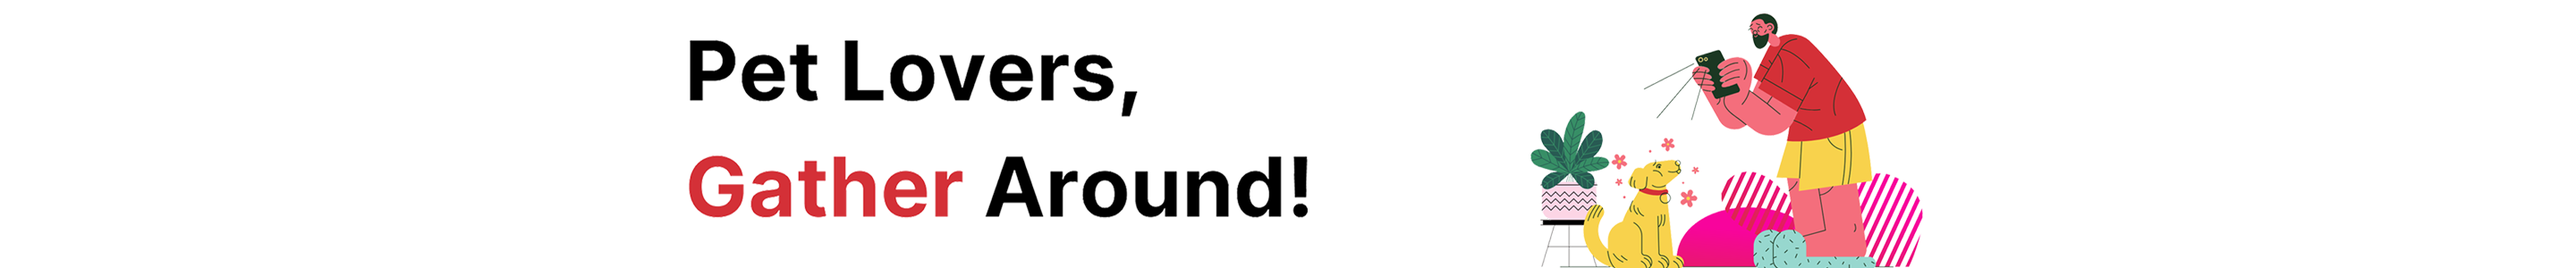
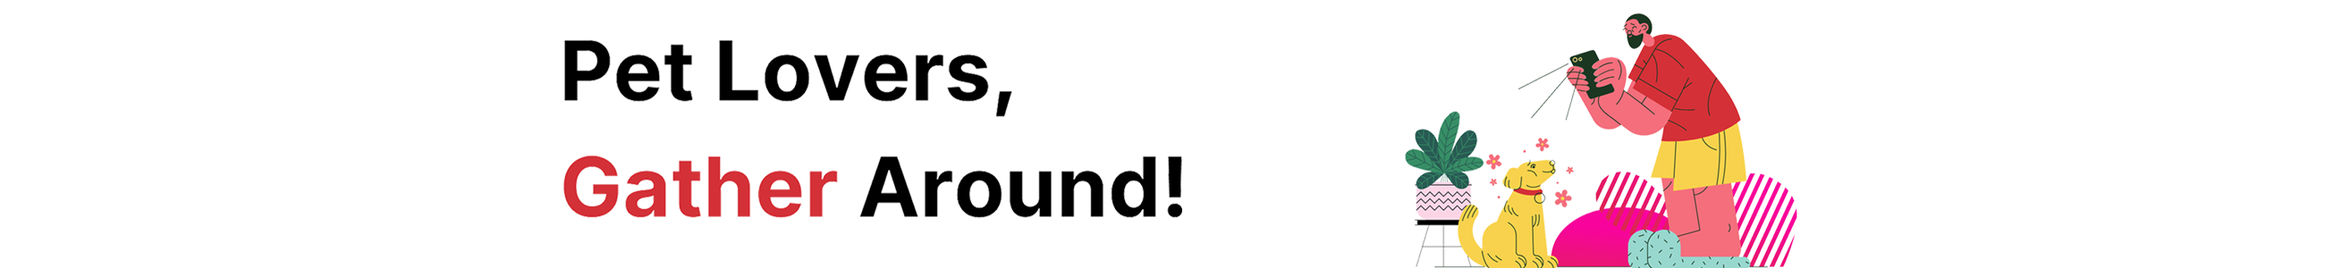
css 수정

Changed region(s): [[0.5919, 0.06, 0.7788, 1.0], [0.2181, 0.57, 0.4985, 0.81], [0.2181, 0.15, 0.4673, 0.42]]

diff --git a/src/main/resources/templates/thymeleaf/choco/board/board_form.html b/src/main/resources/templates/thymeleaf/choco/board/board_form.html
@@ -1,49 +1,55 @@
 <!DOCTYPE html>
-<html xmlns:th="http://www.thymeleaf.org">
-<head>
-	<meta charset="UTF-8">
-	<title>Insert title here</title>
-	<link href="https://cdn.jsdelivr.net/npm/bootstrap@5.3.3/dist/css/bootstrap.min.css" rel="stylesheet">
-</head>
-<body style="display:flex; justify-content:center">
-<div style="width:80%;">
-	<div style="text-align:center;">
-		<h1> This is post form page. </h1>
-	</div>
+<html xmlns:th="http//www.thymeleaf.org"
+	xmlns:layout="http://www.ultraq.net.nz/thymeleaf/layout"
+	layout:decorate="~{/thymeleaf/choco/default_layout}">
+
+<th:block layout:fragment="title">
+	<title>MYCUTEPET | BOARD FORM</title>
+</th:block>
+
+<th:block layout:fragment="wrapper">	
+  <!-- 메인 이미지 -->
+  <div class="main-img">
+      <img src="/images/board-img.png" alt="Pet Lovers" class="main-img" />
+  </div>
+
+  <!-- 콘텐츠 래퍼 -->
+  <div layout:fragment="content-wrapper" class="content-wrapper">
+  <!-- 배너 -->
+  <div th:replace="/thymeleaf/choco/include::banner"></div>
+    <!-- 메인 콘텐츠 -->
+  <div layout:fragment="main-content-wrapper" class="main-content-wrapper">
+	<div style="width:80%;">
+		<form action="/board/add" method="post" enctype="multipart/form-data" oninput="markFormAsDirty()" th:object="${board}">
+		    <div class="mb-3">
+			    <select class="form-select" th:field="*{boardCategory}" required>
+			        <option value="1">강아지</option>
+			        <option value="2">고양이</option>
+			        <option value="3">소동물</option>
+			    </select>
+			</div>
+			
+			<div class="mb-3">
+		  	    <label for="validationTextarea" class="form-label">제목</label>
+		        <input type="text" class="form-control" th:field="*{boardTitle}" placeholder="제목을 입력해주세요." required />
+		    </div>
+		  
+			<div class="mb-3">
+		  	    <label for="validationTextarea" class="form-label">내용</label>
+		        <textarea class="form-control" th:field="*{boardContent}" placeholder="내용을 입력하세요." required></textarea>
+		    </div>
 	
-	<form action="/board/add" method="post" enctype="multipart/form-data" oninput="markFormAsDirty()" th:object="${board}">
-	    <div class="mb-3">
-		    <select class="form-select" th:field="*{boardCategory}" required>
-		        <option value="1">강아지</option>
-		        <option value="2">고양이</option>
-		        <option value="3">소동물</option>
-		    </select>
-		</div>
+		    <div class="mb-3">
+		        <input type="file" class="form-control">
+		    </div>
 		
-		<div class="mb-3">
-	  	    <label for="validationTextarea" class="form-label">제목</label>
-	        <input type="text" class="form-control" th:field="*{boardTitle}" placeholder="제목을 입력해주세요." required />
-	    </div>
-	  
-		<div class="mb-3">
-	  	    <label for="validationTextarea" class="form-label">내용</label>
-	        <textarea class="form-control" th:field="*{boardContent}" placeholder="내용을 입력하세요." required></textarea>
-	    </div>
-
-	    <div class="mb-3">
-	        <input type="file" class="form-control">
-	    </div>
-	
-	    <div class="mb-3">
-	        <button class="btn btn-primary" type="submit">등록</button>
-	    </div>
-	    
-	</form>
+		    <div class="mb-3">
+		        <button class="btn btn-primary" type="submit">등록</button>
+		    </div> 
+		</form>
+    </div>
+  </div>
 </div>
-
-  <script>
-
-  </script>
-
-</body>
+      
+</th:block>
 </html>

diff --git a/src/main/resources/templates/thymeleaf/choco/board/board_detail.html b/src/main/resources/templates/thymeleaf/choco/board/board_detail.html
@@ -1,12 +1,71 @@
 <!DOCTYPE html>
-<html xmlns:th="http://www.thymeleaf.org">
-	<head>
-		<meta charset="UTF-8">
-		<title>Insert title here</title>
-	</head>
-	<body>
-		<div style="text-align:center;">
-			<h1> This is post detail page. </h1>
-		</div>
-	</body>
+<html xmlns:th="http//www.thymeleaf.org"
+	xmlns:layout="http://www.ultraq.net.nz/thymeleaf/layout"
+	layout:decorate="~{/thymeleaf/choco/default_layout}">
+
+<th:block layout:fragment="title">
+	<title>MYCUTEPET | BOARD DETAIL</title>
+</th:block>
+
+<th:block layout:fragment="wrapper">	
+  <!-- 메인 이미지 -->
+  <div class="main-img">
+      <img src="/images/board-img.png" alt="Pet Lovers" class="main-img" />
+  </div>
+
+  <!-- 콘텐츠 래퍼 -->
+  <div layout:fragment="content-wrapper" class="content-wrapper">
+  <!-- 배너 -->
+  <div th:replace="/thymeleaf/choco/include::banner"></div>
+    <!-- 메인 콘텐츠 -->
+    <div layout:fragment="main-content-wrapper" class="main-content-wrapper">
+      <h4>오늘의 주접왕</h4> <br>
+      <div class="post-container">
+        <!-- 각 게시글 카드 -->
+        <div class="post-card">
+          <img src="/images/cardimgtest.png" alt="임시 이미지">
+          <h3>카드1</h3>
+          <p>내용 없음</p>
+          <p class="post-date">날짜 없음</p>
+          <a href="post.html">Read more</a>
+        </div>
+        <div class="post-card">
+          <img src="/images/cardimgtest.png" alt="임시 이미지">
+          <h3>카드 2</h3>
+          <p>내용 없음</p>
+          <p class="post-date">날짜 없음</p>
+          <a href="post.html">Read more</a>
+        </div>
+        <div class="post-card">
+          <img src="/images/cardimgtest.png" alt="임시 이미지">
+          <h3>카드3</h3>
+          <p>내용 없음</p>
+          <p class="post-date">날짜 없음</p>
+          <a href="post.html">Read more</a>
+        </div>
+        <div class="post-card">
+          <img src="/images/cardimgtest.png" alt="임시 이미지">
+          <h3>카드4</h3>
+          <p>내용 없음</p>
+          <p class="post-date">날짜 없음</p>
+          <a href="post.html">Read more</a>
+        </div>
+        <div class="post-card">
+          <img src="/images/cardimgtest.png" alt="임시 이미지">
+          <h3>카드5</h3>
+          <p>내용 없음</p>
+          <p class="post-date">날짜 없음</p>
+          <a href="post.html">Read more</a>
+        </div>
+        <div class="post-card">
+          <img src="/images/cardimgtest.png" alt="임시 이미지">
+          <h3>카드6</h3>
+          <p>내용 없음</p>
+          <p class="post-date">날짜 없음</p>
+          <a href="post.html">Read more</a>
+        </div>
+      </div>
+     </div>
+    </div>
+</th:block>
 </html>

diff --git a/src/main/resources/templates/thymeleaf/choco/board/board_list.html b/src/main/resources/templates/thymeleaf/choco/board/board_list.html
@@ -1,12 +1,71 @@
 <!DOCTYPE html>
-<html xmlns:th="http://www.thymeleaf.org">
-	<head>
-		<meta charset="UTF-8">
-		<title>Insert title here</title>
-	</head>
-	<body>
-		<div style="text-align:center;">
-			<h1> This is post list page. </h1>
-		</div>
-	</body>
+<html xmlns:th="http//www.thymeleaf.org"
+	xmlns:layout="http://www.ultraq.net.nz/thymeleaf/layout"
+	layout:decorate="~{/thymeleaf/choco/default_layout}">
+
+<th:block layout:fragment="title">
+	<title>MYCUTEPET | BOARD LIST</title>
+</th:block>
+
+<th:block layout:fragment="wrapper">	
+  <!-- 메인 이미지 -->
+  <div class="main-img">
+      <img src="/images/board-img.png" alt="Pet Lovers" class="main-img" />
+  </div>
+
+  <!-- 콘텐츠 래퍼 -->
+  <div layout:fragment="content-wrapper" class="content-wrapper">
+  <!-- 배너 -->
+  <div th:replace="/thymeleaf/choco/include::banner"></div>
+    <!-- 메인 콘텐츠 -->
+    <div layout:fragment="main-content-wrapper" class="main-content-wrapper">
+      <h4>오늘의 주접왕</h4> <br>
+      <div class="post-container">
+        <!-- 각 게시글 카드 -->
+        <div class="post-card">
+          <img src="/images/cardimgtest.png" alt="임시 이미지">
+          <h3>카드1</h3>
+          <p>내용 없음</p>
+          <p class="post-date">날짜 없음</p>
+          <a href="post.html">Read more</a>
+        </div>
+        <div class="post-card">
+          <img src="/images/cardimgtest.png" alt="임시 이미지">
+          <h3>카드 2</h3>
+          <p>내용 없음</p>
+          <p class="post-date">날짜 없음</p>
+          <a href="post.html">Read more</a>
+        </div>
+        <div class="post-card">
+          <img src="/images/cardimgtest.png" alt="임시 이미지">
+          <h3>카드3</h3>
+          <p>내용 없음</p>
+          <p class="post-date">날짜 없음</p>
+          <a href="post.html">Read more</a>
+        </div>
+        <div class="post-card">
+          <img src="/images/cardimgtest.png" alt="임시 이미지">
+          <h3>카드4</h3>
+          <p>내용 없음</p>
+          <p class="post-date">날짜 없음</p>
+          <a href="post.html">Read more</a>
+        </div>
+        <div class="post-card">
+          <img src="/images/cardimgtest.png" alt="임시 이미지">
+          <h3>카드5</h3>
+          <p>내용 없음</p>
+          <p class="post-date">날짜 없음</p>
+          <a href="post.html">Read more</a>
+        </div>
+        <div class="post-card">
+          <img src="/images/cardimgtest.png" alt="임시 이미지">
+          <h3>카드6</h3>
+          <p>내용 없음</p>
+          <p class="post-date">날짜 없음</p>
+          <a href="post.html">Read more</a>
+        </div>
+      </div>
+     </div>
+    </div>
+</th:block>
 </html>

diff --git a/src/main/resources/static/css/home.css b/src/main/resources/static/css/home.css
@@ -7,6 +7,7 @@ html, body {
   display: flex;
   flex-direction: column; /* 세로 방향 배치 */
   min-height: 100%; /* 콘텐츠가 부족해도 푸터를 하단으로 밀어냄 */
+  min-width: 1200px; 
 }
 
 /* 전체 헤더 스타일 */
@@ -76,12 +77,20 @@ header {
   }
 
  /* main-img 이미지 스타일 */
-  .main-img img {
-    max-width: 100%; /* 이미지 너비를 전체의 100%로 제한 */
-    padding: 15px 0 0 0; /* 상하, 좌우 여백 */
+  .main-img {
+  	display: flex;
+  	justify-content: center;
+    width: 100%;
+    height: 190px;
+    padding: 0px 0 0 0; /* 상하, 좌우 여백 */
     border-bottom: 1px solid #e0e0e0; 
+    
   }
 
+  .main-img img {
+    height: 190px;
+    object-fit: contain;       /* 비율을 유지하면서 높이를 꽉 채움 */
+  }
 
 /* 콘텐츠 래퍼 */
 .content-wrapper {

diff --git a/src/main/java/com/choco/HomeController.java b/src/main/java/com/choco/HomeController.java
@@ -6,7 +6,7 @@ import org.springframework.web.bind.annotation.GetMapping;
 @Controller
 public class HomeController {
 
-	@GetMapping(value={"","/"})
+	@GetMapping(value={"", "/", "/home"})
 	public String index() {
 		return "thymeleaf/choco/home";
 	}
